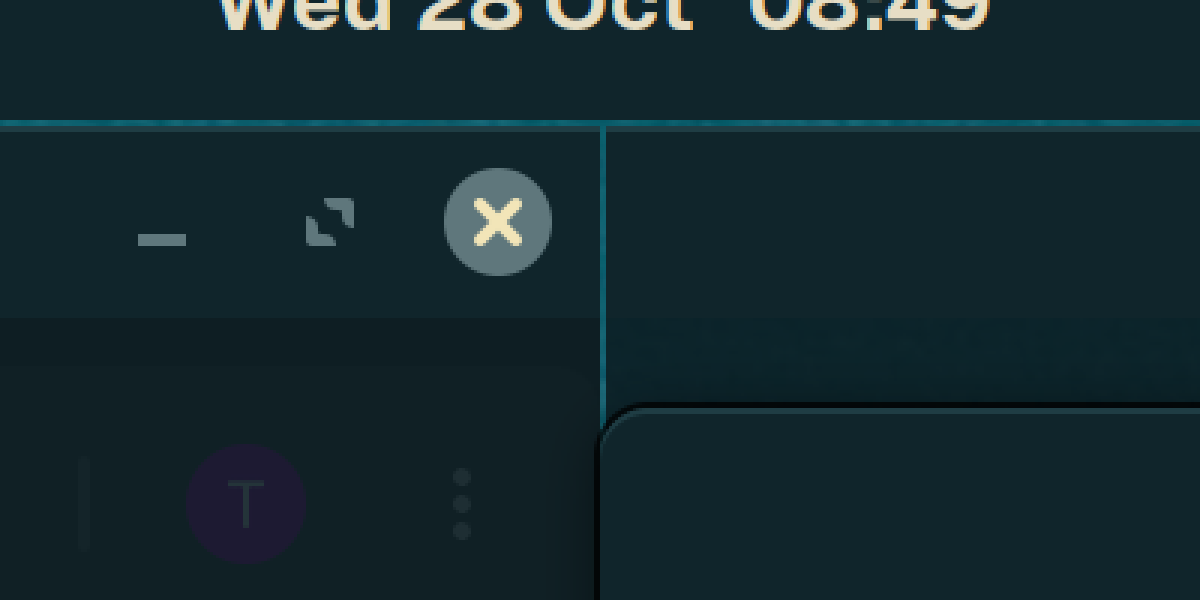
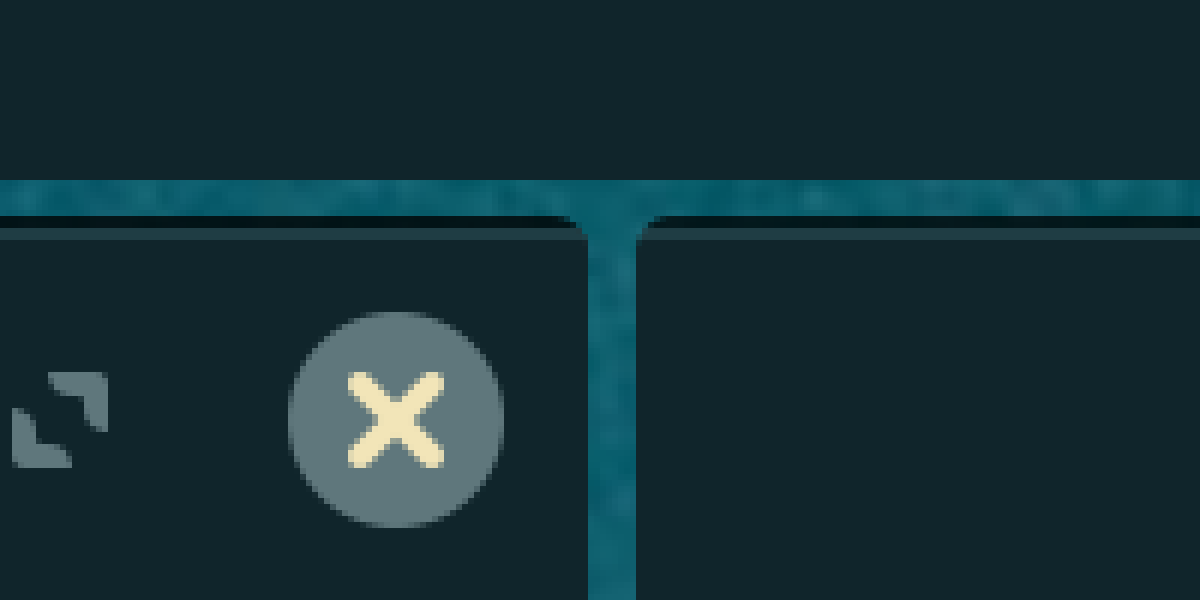
rice: snapshot 2026-10-28 08:51

diff --git a/dotfiles/.local/share/cinnamon/extensions/doorway-gaps@notrealqt/extension.js b/dotfiles/.local/share/cinnamon/extensions/doorway-gaps@notrealqt/extension.js
@@ -1,0 +1,137 @@
+// Doorway rice — window gaps (see ~/rice/README.md, #19).
+// 1. Panel gap: an invisible strut GAP px taller than each top panel, so maximised and tiled
+//    windows start GAP px below it.
+// 2. Tile gap: muffin forces tiled windows to fill their tile exactly, so instead each tiled
+//    window gets a shader that hides GAP px on any left/top edge facing another tile and
+//    rounds its corners by RADIUS (a plain clip can only cut square corners).
+// Stage px are 2x (fractional scaling): GAP 8 = 4px, RADIUS 6 = 3px.
+const Main = imports.ui.main;
+const Meta = imports.gi.Meta;
+const St = imports.gi.St;
+const GLib = imports.gi.GLib;
+const Clutter = imports.gi.Clutter;
+
+const GAP = 8, RADIUS = 6, EFFECT = 'doorway-round';
+// p = pixel inside the offscreen texture (same origin as the window actor); rect = visible box.
+const SHADER = `
+uniform sampler2D tex;
+uniform float w, h, x0, y0, x1, y1, r;
+void main() {
+    vec2 p = cogl_tex_coord_in[0].st * vec2(w, h);
+    vec2 d = max(max(vec2(x0, y0) + r - p, p - vec2(x1, y1) + r), 0.0);
+    float a = clamp(r + 0.5 - length(d), 0.0, 1.0);
+    if (p.x < x0 || p.y < y0 || p.x > x1 || p.y > y1) a = 0.0;
+    cogl_color_out = texture2D(tex, cogl_tex_coord_in[0].st) * cogl_color_in * a;
+}`;
+// a whole number would reach GL as an int uniform; nudge it so GJS sends a double
+const f = n => n + 0.0001;
+let struts = [], panelIds = [], winIds = new Map(), sigs = [], pending = 0, settle = 0, rebuildId = 0;
+
+// ---- panel gap ----
+function clearStruts() {
+    struts.forEach(a => { Main.layoutManager.removeChrome(a); a.destroy(); });
+    struts = [];
+    panelIds.forEach(([actor, id]) => actor.disconnect(id));
+    panelIds = [];
+}
+
+function rebuild() {
+    rebuildId = 0;
+    clearStruts();
+    for (let panel of Main.panelManager.panels) {
+        if (!panel) continue;
+        let mon = Main.layoutManager.monitors[panel.monitorIndex];
+        if (!mon || panel.actor.y !== mon.y) continue;          // top panels only
+        let a = new St.Widget({ reactive: false, x: mon.x, y: mon.y,
+                                width: mon.width, height: panel.actor.height + GAP });
+        Main.layoutManager.addChrome(a, { affectsStruts: true, affectsInputRegion: false });
+        struts.push(a);
+        panelIds.push([panel.actor, panel.actor.connect('notify::height', queueRebuild)]);
+    }
+    return GLib.SOURCE_REMOVE;
+}
+
+function queueRebuild() {
+    if (!rebuildId) rebuildId = GLib.timeout_add(GLib.PRIORITY_DEFAULT, 500, rebuild);
+}
+
+// ---- tile gap ----
+function allWindows() {
+    return global.get_window_actors().map(a => a.meta_window).filter(w => w);
+}
+
+function clip(win) {
+    let actor = win.get_compositor_private();
+    if (!actor) return;
+    let effect = actor.get_effect(EFFECT);
+    if (!win.tile_mode || win.get_maximized() === Meta.MaximizeFlags.BOTH) {
+        if (effect) actor.remove_effect(effect);
+        return;
+    }
+    if (!effect) {
+        effect = new Clutter.ShaderEffect({ shader_type: Clutter.ShaderType.FRAGMENT_SHADER });
+        effect.set_shader_source(SHADER);
+        actor.add_effect_with_name(EFFECT, effect);
+    }
+    let fr = win.get_frame_rect(), b = win.get_buffer_rect();   // buffer = actor origin, minus animation
+    let area = win.get_work_area_current_monitor();
+    let left = fr.x > area.x ? GAP : 0, top = fr.y > area.y ? GAP : 0;
+    let [ok, tw, th] = effect.get_target_size();                 // texture is a little bigger than the buffer
+    if (!ok) [tw, th] = [b.width, b.height];
+    let x0 = fr.x - b.x + left, y0 = fr.y - b.y + top;
+    effect.set_uniform_value('w', f(tw));
+    effect.set_uniform_value('h', f(th));
+    effect.set_uniform_value('x0', f(x0));
+    effect.set_uniform_value('y0', f(y0));
+    effect.set_uniform_value('x1', f(fr.x - b.x + fr.width));
+    effect.set_uniform_value('y1', f(fr.y - b.y + fr.height));
+    effect.set_uniform_value('r', f(RADIUS));
+}
+
+function clipAll() {
+    pending = 0;
+    allWindows().forEach(clip);
+    if (!settle) settle = GLib.timeout_add(GLib.PRIORITY_DEFAULT, 300, () => {
+        settle = 0;
+        allWindows().forEach(clip);
+        return GLib.SOURCE_REMOVE;
+    });
+    return GLib.SOURCE_REMOVE;
+}
+
+function queueClip() {
+    if (!pending) pending = GLib.timeout_add(GLib.PRIORITY_DEFAULT, 30, clipAll);
+}
+
+function watch(win) {
+    if (winIds.has(win)) return;
+    winIds.set(win, ['size-changed', 'position-changed'].map(s => win.connect(s, queueClip)));
+    win.connect('unmanaged', () => winIds.delete(win));
+}
+
+function init(metadata) {}
+
+function enable() {
+    allWindows().forEach(watch);
+    sigs.push([global.display, global.display.connect('window-created', (d, w) => { watch(w); queueClip(); })]);
+    sigs.push([global.display, global.display.connect('workareas-changed', queueClip)]);
+    sigs.push([Main.layoutManager, Main.layoutManager.connect('monitors-changed', queueRebuild)]);
+    sigs.push([global.settings, global.settings.connect('changed::panels-enabled', queueRebuild)]);
+    sigs.push([global.settings, global.settings.connect('changed::panels-height', queueRebuild)]);
+    rebuild();
+    clipAll();
+}
+
+function disable() {
+    sigs.forEach(([obj, id]) => obj.disconnect(id));
+    sigs = [];
+    winIds.forEach((ids, win) => ids.forEach(id => win.disconnect(id)));
+    winIds.clear();
+    [pending, settle, rebuildId].forEach(id => { if (id) GLib.source_remove(id); });
+    pending = settle = rebuildId = 0;
+    clearStruts();
+    allWindows().forEach(w => {
+        let a = w.get_compositor_private();
+        if (a && a.get_effect(EFFECT)) a.remove_effect_by_name(EFFECT);
+    });
+}

diff --git a/README.md b/README.md
@@ -26,7 +26,7 @@ Warm, dreamy, grainy. Dark base taken from the deep teal of the sky.
 | 16 | Desktop widgets              | ✅ done  | network-admin conky card: system · link (wifi or wired + LLDP switch/port) · network (lan/gw/dns/wan/vpn/fw) · health (ms/loss/jitter via fping) · connections · memory (top 4 apps by RAM). Follows the panel: laptop top-right just under the panel (DOORWAY_HEAD from doorway-card; panel-on-laptop restarts it on monitor change). Super+M toggles. Alerts running. Needs lldpd iw ufw fping (installed). |
 | 17 | Editor (VS Code)             | ✅ done  | Doorway colour theme (~/rice/vscode-doorway → doorway-theme.vsix, installed), GeistMono 14 / terminal 13, ligatures, smooth caret, custom title bar |
 | 18 | Browser (Firefox)            | ✅ done  | userChrome.css / userContent.css + user.js in profile ym2kcaxo.default-release (copies in ~/rice/firefox): teal toolbars, tab strip #10252b with no separate title bar (matches the merged panel), orange line on the active tab, orange focused URL bar, dark new tab |
-| 19 | Window behaviour             | ✅ done  | Super+1-4 go to workspace, Super+Shift+1-4 move window there (window-list Super+number launching turned off) · Super+←→↑↓ tile · Super+F maximise · Super+H minimise · Super+Q close · 1px gaps: under the panel for maximised/tiled windows and between tiles (extension doorway-gaps@notrealqt; mock ~/rice/preview/gaps-zoom.png) · new windows centred · dialogs attached · animations fast |
+| 19 | Window behaviour             | ✅ done  | Super+1-4 go to workspace, Super+Shift+1-4 move window there (window-list Super+number launching turned off) · Super+←→↑↓ tile · Super+F maximise · Super+H minimise · Super+Q close · 4px gaps under the panel (maximised/tiled windows) and between tiles, tiled windows get 3px rounded corners (extension doorway-gaps@notrealqt; mock ~/rice/preview/gaps-zoom.png) · new windows centred · dialogs attached · animations fast |
 | 20 | Dotfiles / backup            | ✅ done  | ~/rice is a git repo. `bash ~/rice/collect.sh` copies all configs into ~/rice/dotfiles + dumps Cinnamon settings (~/rice/dconf) + commits. Fresh install: packages.txt → restore.sh → apply-login.sh |
 
 Other tweaks done: Vietnamese typing = fcitx5 + Unikey Telex (Super+Space EN/VI, ~/.config/fcitx5, Doorway theme ~/.local/share/fcitx5/themes/Doorway; old fcitx4 purged; GLFW_IM_MODULE=ibus in ~/.xsessionrc for kitty) · screenshots = Flameshot on Ctrl+Shift+S, copies to clipboard on release (~/rice/bin/doorway-shot → also saved to ~/Pictures/Screenshots) · kitty opens 70x20 · dark mode on, desktop icons on (laptop screen), auto-arrange off,
@@ -93,6 +93,7 @@ cyan `#4f9aa6` / `#74b6c0` · white `#e8dfc6` / `#f2e5b8`
 - 2026-10-28 — panel merges with maximised/tiled windows (doorway-solid extension); Firefox tab strip → #10252b and its separate title bar turned off (browser.tabs.inTitlebar)
 - 2026-10-28 — conky card moved left (gap_x 16 → 27): its right edge spilled 10px onto the ViewSonic; now lines up with the right edge of the panel's right island (x 3060)
 - 2026-10-28 — 1px gap under the panel (maximised/tiled windows) and between tiled windows — doorway-gaps extension
+- 2026-10-28 — gaps widened to 4px; tiled windows get 3px rounded corners (shader mask)
 - 2026-10-28 — screenshots work like Windows Win+Shift+S: drag an area and it's copied to the clipboard (and saved) as soon as you let go — no Enter/confirm step
 
 ## Files
@@ -120,7 +121,7 @@ cyan `#4f9aa6` / `#74b6c0` · white `#e8dfc6` / `#f2e5b8`
 | Login screen | ~/rice/apply-login.sh (sudo) |
 | Backup / restore | ~/rice/collect.sh · ~/rice/restore.sh · ~/rice/packages.txt · ~/rice/dconf/ · ~/rice/dotfiles/ |
 | Tray icon filter | ~/.local/share/cinnamon/extensions/doorway-tray@notrealqt |
-| Window gaps | ~/.local/share/cinnamon/extensions/doorway-gaps@notrealqt (GAP = 2 stage px = 1px) |
+| Window gaps | ~/.local/share/cinnamon/extensions/doorway-gaps@notrealqt (GAP 8 / RADIUS 6 stage px = 4px / 3px; tiles are masked by a shader, not resized) |
 | Solid panel when maximised | ~/.local/share/cinnamon/extensions/doorway-solid@notrealqt |
 | Menu button icon | ~/rice/assets/doorway-menu.svg |
 | Panel stays on laptop | ~/rice/bin/panel-on-laptop (watches monitor changes, moves panel to eDP's index) |
